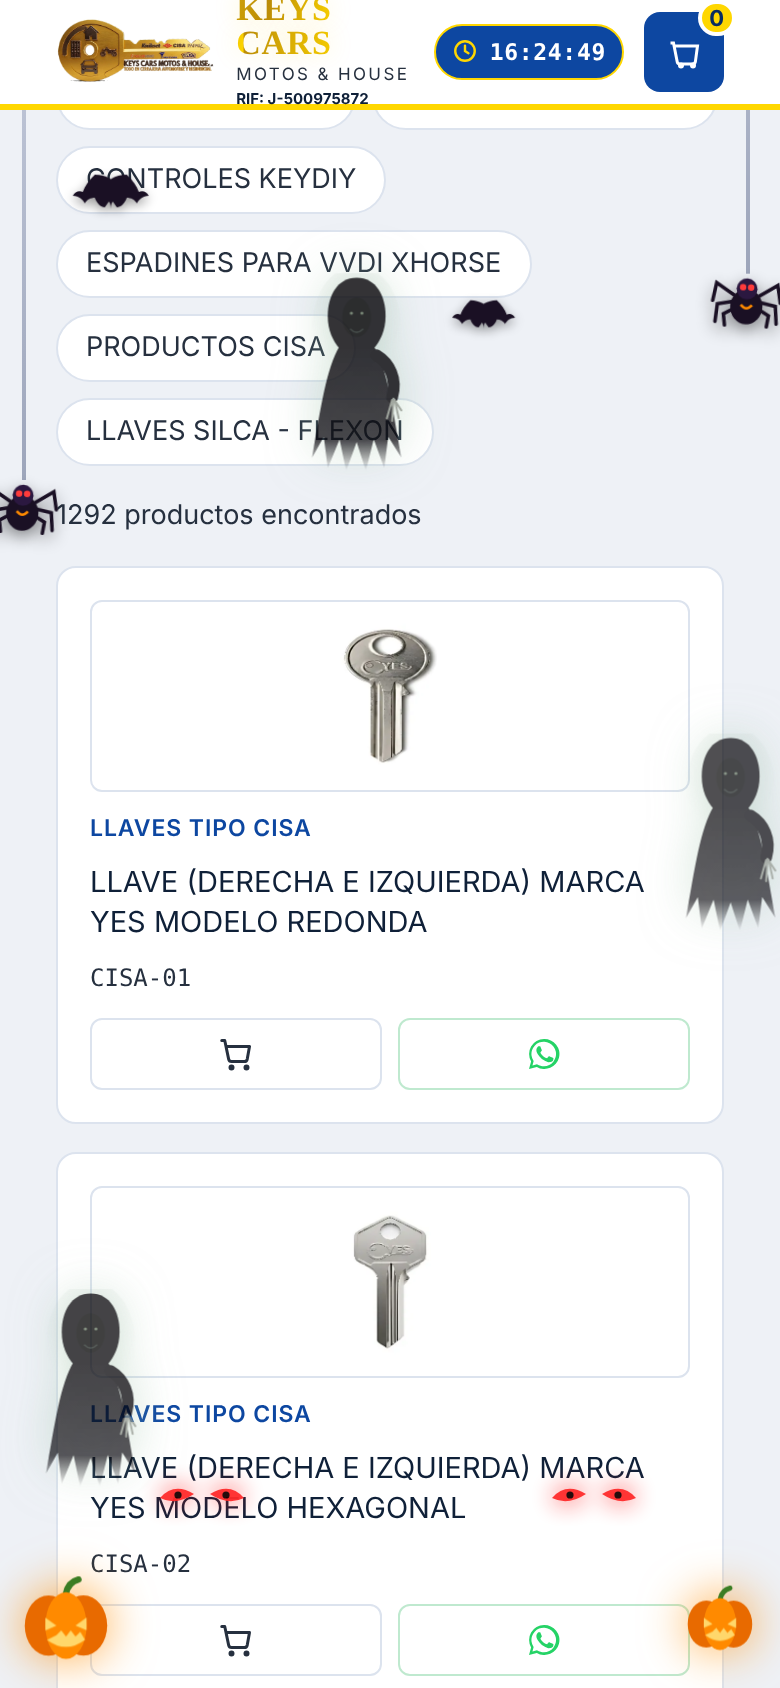
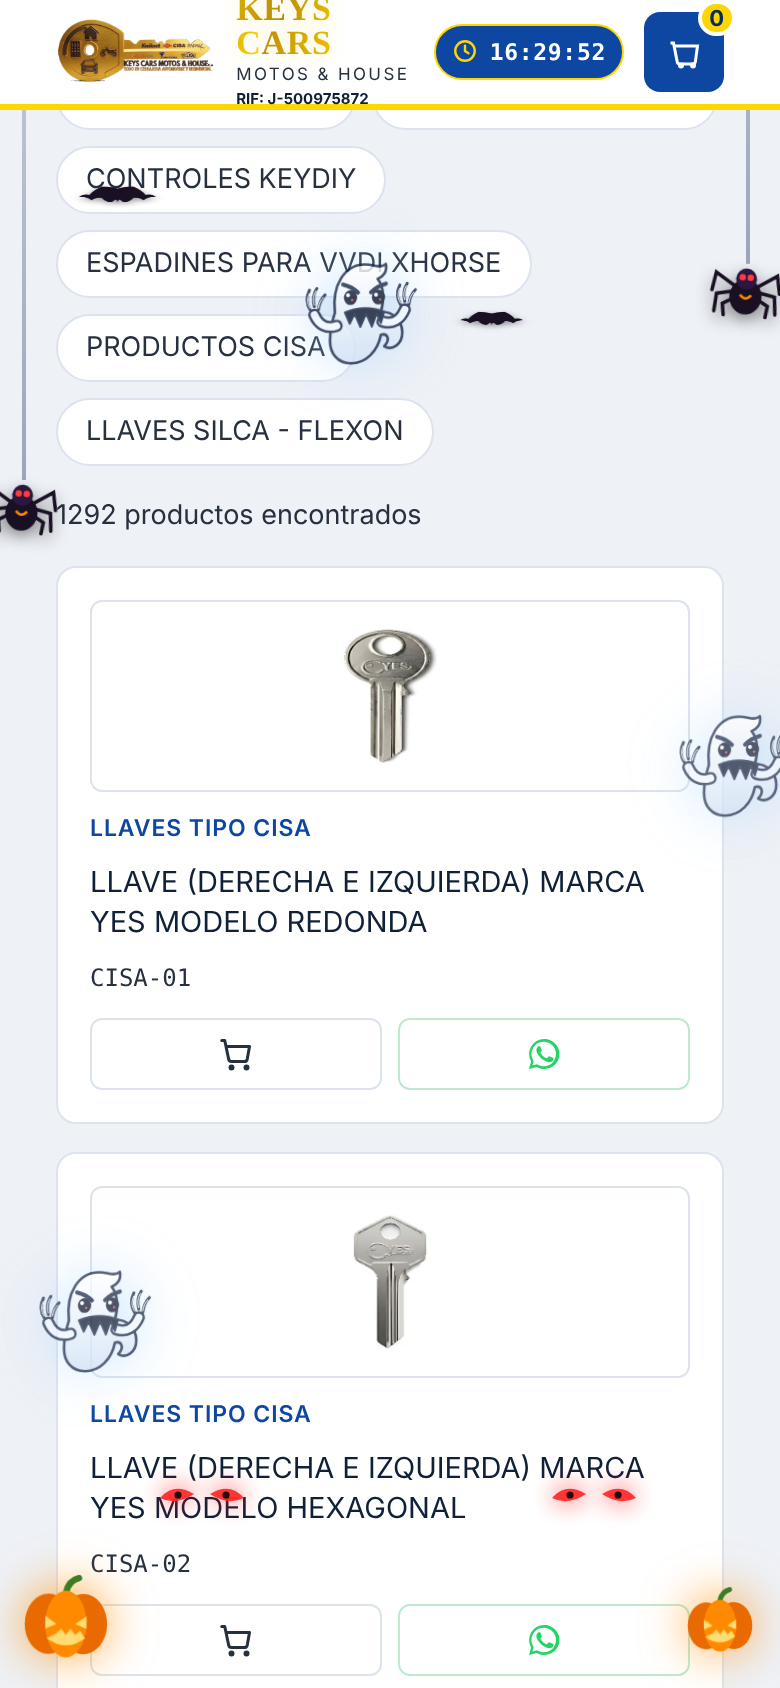
Halloween: fantasmas enojados con garras y dientes afilados
Claude-Session: https://claude.ai/code/session_01SXQ2G67n1zthcvrG685rs1

diff --git a/halloween.js b/halloween.js
@@ -35,8 +35,8 @@
   '@keyframes hwBobW{0%,100%{transform:translateY(0) rotate(-2deg)}50%{transform:translateY(-9px) rotate(2deg)}}' +
   '@keyframes hwWitch{0%{transform:translate(0,0);opacity:0}3%{opacity:1}30%{transform:translate(45vw,60px)}55%{transform:translate(80vw,-20px);opacity:1}62%,100%{transform:translate(calc(100vw + 260px),20px);opacity:0}}' +
   /* fantasmas */
-  '.hw-ghost{position:absolute;bottom:-170px;width:66px;height:142px;opacity:0;animation:hwGhost var(--t,14s) ease-in-out var(--d,0s) infinite;}' +
-  '.hw-ghost svg{width:100%;height:100%;animation:hwWob 2.4s ease-in-out infinite;filter:drop-shadow(0 0 12px rgba(150,190,160,.55));}' +
+  '.hw-ghost{position:absolute;bottom:-130px;width:84px;height:90px;opacity:0;animation:hwGhost var(--t,14s) ease-in-out var(--d,0s) infinite;}' +
+  '.hw-ghost svg{width:100%;height:100%;animation:hwWob 2.4s ease-in-out infinite;filter:drop-shadow(0 0 14px rgba(170,215,255,.8));}' +
   '@keyframes hwGhost{0%{transform:translateY(0);opacity:0}12%{opacity:.9}50%{opacity:.7}85%{opacity:.9}100%{transform:translateY(-115vh);opacity:0}}' +
   '@keyframes hwWob{0%,100%{transform:translateX(-14px) rotate(-3deg) skewX(-3deg)}50%{transform:translateX(14px) rotate(3deg) skewX(3deg)}}' +
   /* ojos rojos que miran desde la oscuridad */
@@ -55,7 +55,7 @@
   '.hw-badge{display:flex;align-items:center;justify-content:center;gap:8px;margin:0 auto 10px;padding:5px 14px;width:max-content;max-width:100%;border-radius:999px;background:#1a1024;color:#ff9d1c;border:1px solid #ff8a00;font:800 12px/1.2 Inter,system-ui,sans-serif;letter-spacing:.06em;text-transform:uppercase;}' +
   '.hw-badge svg{width:16px;height:16px;flex:none;}' +
   '.hw-on .reel{box-shadow:inset 0 0 14px rgba(255,138,0,.35);}' +
-  '@media(max-width:480px){.hw-witch{width:150px;height:95px;top:92px}.hw-ghost{width:46px;height:99px}.hw-web{width:84px;height:84px}.hw-pumpkin{width:46px;height:43px}.hw-pumpkin.hw-p2{width:36px;height:34px}.hw-spider.hw-s3{display:none}.hw-spider{width:36px;margin-left:-18px}.hw-spider svg{width:36px;height:29px}}' +
+  '@media(max-width:480px){.hw-witch{width:150px;height:95px;top:92px}.hw-ghost{width:60px;height:64px}.hw-web{width:84px;height:84px}.hw-pumpkin{width:46px;height:43px}.hw-pumpkin.hw-p2{width:36px;height:34px}.hw-spider.hw-s3{display:none}.hw-spider{width:36px;margin-left:-18px}.hw-spider svg{width:36px;height:29px}}' +
   '@media(prefers-reduced-motion:reduce){.hw-layer *,.hw-on .game-panel{animation:none!important}.hw-bat,.hw-witch,.hw-ghost,.hw-flash{display:none}.hw-spider{transform:translateY(60px)}}';
 
   var st = document.createElement('style'); st.textContent = css; document.head.appendChild(st);
@@ -66,7 +66,7 @@
   var webSvg = '<svg viewBox="0 0 120 120" aria-hidden="true" fill="none" stroke="#ffffff" stroke-width="1.2" stroke-linecap="round"><path d="M0 0L120 0M0 0L0 120M0 0L100 100M0 0L110 45M0 0L45 110"/><path d="M26 0Q22 22 0 26M52 0Q44 44 0 52M80 0Q64 64 0 80M108 0Q86 86 0 108"/></svg>';
 
   var witchSvg = '<svg viewBox="0 0 220 140" aria-hidden="true"><defs><radialGradient id="hwM" cx="40%" cy="38%" r="70%"><stop offset="0" stop-color="#fffbe0"/><stop offset="1" stop-color="#f1d98a"/></radialGradient><linearGradient id="hwC" x1="1" y1="0" x2="0" y2="1"><stop offset="0" stop-color="#2b1247"/><stop offset="1" stop-color="#0c0614"/></linearGradient></defs><circle cx="172" cy="40" r="34" fill="url(#hwM)" opacity=".95"/><circle cx="160" cy="32" r="6" fill="#e6cf7e" opacity=".7"/><circle cx="182" cy="52" r="4.5" fill="#e6cf7e" opacity=".7"/><circle cx="176" cy="26" r="3" fill="#e6cf7e" opacity=".6"/><g><path d="M42 98 L2 80 L7 96 L0 108 L9 111 L4 124 L44 106z" fill="#7a5628"/><path d="M42 98 L6 90M42 101 L4 104M42 104 L8 118" stroke="#3b2812" stroke-width="1.4" fill="none"/><path d="M40 96 L196 84" stroke="#3a2412" stroke-width="5.5" stroke-linecap="round"/><path d="M38 93 L46 93 L46 107 L38 107z" fill="#4a3216"/></g><path d="M106 62C94 66 86 78 80 96C62 100 42 112 22 130C46 124 66 122 86 110C82 118 78 124 72 132C92 122 106 110 114 98L128 88C124 72 118 62 106 62z" fill="url(#hwC)"/><path d="M80 96C70 104 56 112 40 120" stroke="#0c0614" stroke-width="3" fill="none"/><path d="M118 70L138 88" stroke="#140a1f" stroke-width="8" stroke-linecap="round"/><circle cx="141" cy="89" r="5" fill="#8fbf6a"/><path d="M114 50C96 44 80 52 60 44C74 60 94 62 114 58z" fill="#d7d7e6" opacity=".95"/><path d="M114 54C98 54 86 64 66 62C82 70 102 70 114 62z" fill="#a9a9bd" opacity=".9"/><circle cx="125" cy="52" r="12" fill="#8fbf6a"/><path d="M134 50C146 52 150 60 142 66C142 60 138 58 133 58z" fill="#78a857"/><path d="M123 63Q128 72 140 68L134 62z" fill="#78a857"/><path d="M122 58q6 5 13 0" stroke="#2a1840" stroke-width="1.6" fill="none"/><circle cx="130" cy="49" r="2.4" fill="#e6ff3a"/><circle cx="130" cy="49" r="1" fill="#1a1024"/><path d="M104 42C104 36 112 36 124 36 138 36 146 38 146 42 134 44 114 44 104 42z" fill="#0b0613"/><path d="M110 38C112 22 122 12 130 4Q137 -3 150 5Q139 7 138 14C138 24 140 32 140 38z" fill="#0b0613"/><path d="M110 31L140 31L141 37L109 37z" fill="#7a2bd1"/><rect x="121" y="30" width="9" height="8" rx="1" fill="none" stroke="#f0c53a" stroke-width="1.8"/><circle cx="58" cy="118" r="2" fill="#bfff4a" opacity=".8"/><circle cx="40" cy="132" r="1.6" fill="#ffd84a" opacity=".8"/><circle cx="24" cy="116" r="1.4" fill="#bfff4a" opacity=".6"/></svg>';
-  var ghostSvg = '<svg viewBox="0 0 70 150" aria-hidden="true"><defs><linearGradient id="hwG" x1="0" y1="0" x2="0" y2="1"><stop offset="0" stop-color="#050408"/><stop offset=".75" stop-color="#0b0a10" stop-opacity=".92"/><stop offset="1" stop-color="#0b0a10" stop-opacity="0"/></linearGradient><radialGradient id="hwH" cx="50%" cy="30%" r="60%"><stop offset="0" stop-color="#9fb8a8" stop-opacity=".28"/><stop offset="1" stop-color="#9fb8a8" stop-opacity="0"/></radialGradient></defs><ellipse cx="35" cy="40" rx="34" ry="46" fill="url(#hwH)"/><path d="M35 3C20 3 13 17 13 32C13 43 17 51 22 57L48 57C53 51 57 43 57 32C57 17 50 3 35 3z" fill="#050408"/><ellipse cx="35" cy="33" rx="11" ry="15" fill="#000"/><circle cx="31" cy="30" r="1.2" fill="#a9c9a0" opacity=".55"/><circle cx="39" cy="30" r="1.2" fill="#a9c9a0" opacity=".55"/><path d="M30 42Q35 47 40 42" stroke="#1d2420" stroke-width="1.2" fill="none"/><path d="M22 55C12 72 8 100 1 140L10 124 13 148 22 126 27 150 35 128 42 150 48 126 56 148 59 124 69 140C62 100 58 72 48 55z" fill="url(#hwG)"/><path d="M50 62C60 68 66 80 62 94" stroke="#050408" stroke-width="9" stroke-linecap="round" fill="none"/><g stroke="#8d948a" stroke-width="1.5" stroke-linecap="round" fill="none"><path d="M62 96L58 110M63 97L62 112M64 96L67 110M63 95L69 104"/></g></svg>';
+  var ghostSvg = '<svg viewBox="-8 0 146 140" aria-hidden="true"><defs><linearGradient id="hwF" x1="0" y1="0" x2="0" y2="1"><stop offset="0" stop-color="#ffffff"/><stop offset="1" stop-color="#cfe0f5"/></linearGradient></defs><g stroke="#1b2a4a" stroke-width="3.2" stroke-linejoin="round" stroke-linecap="round" fill="url(#hwF)"><path d="M34 70C30 36 46 12 70 12C82 12 88 18 96 12C98 22 92 28 86 30C94 40 94 56 90 70C104 70 116 80 116 96C116 110 104 118 94 112C102 104 98 96 90 98C86 118 72 132 54 132C38 132 28 120 28 104C28 92 30 82 34 70z"/></g><g fill="none" stroke-linecap="round"><path d="M36 86C24 90 14 84 9 72" stroke="#1b2a4a" stroke-width="15"/><path d="M36 86C24 90 14 84 9 72" stroke="#eef5ff" stroke-width="9"/><path d="M92 82C104 86 114 80 119 68" stroke="#1b2a4a" stroke-width="15"/><path d="M92 82C104 86 114 80 119 68" stroke="#eef5ff" stroke-width="9"/><g stroke="#1b2a4a" stroke-width="3.6"><path d="M4 66C-1 58 -1 50 3 42M9 62C7 54 8 46 12 40M14 66C15 58 18 52 22 48"/><path d="M114 62C109 54 109 46 113 38M119 58C117 50 118 42 122 36M124 62C125 54 128 48 132 44"/></g><g stroke="#fff" stroke-width="1.2"><path d="M4 64C0 58 0 52 3 46M9 60C7 54 8 48 11 43M14 64C15 58 17 54 20 51"/><path d="M114 60C110 54 110 48 113 42M119 56C117 50 118 44 121 39M124 60C125 54 127 50 130 47"/></g></g><path d="M44 36C52 38 58 42 62 46" stroke="#1b2a4a" stroke-width="5" stroke-linecap="round" fill="none"/><path d="M96 36C88 38 82 42 78 46" stroke="#1b2a4a" stroke-width="5" stroke-linecap="round" fill="none"/><ellipse cx="53" cy="52" rx="8" ry="9" fill="#101a33"/><ellipse cx="87" cy="52" rx="8" ry="9" fill="#101a33"/><circle cx="50" cy="49" r="2.4" fill="#fff"/><circle cx="84" cy="49" r="2.4" fill="#fff"/><circle cx="55" cy="55" r="1.4" fill="#ff5252"/><circle cx="89" cy="55" r="1.4" fill="#ff5252"/><path d="M46 70L52 84L58 72L65 88L72 72L79 88L85 72L90 84L94 70Q70 60 46 70z" fill="#101a33" stroke="#1b2a4a" stroke-width="2.2" stroke-linejoin="round"/></svg>';
   var eyesSvg = '<svg viewBox="0 0 46 14" aria-hidden="true"><path d="M2 8 Q9 0 19 6 Q10 12 2 8z" fill="#ff2a2a"/><path d="M44 8 Q37 0 27 6 Q36 12 44 8z" fill="#ff2a2a"/><circle cx="11" cy="6.5" r="1.8" fill="#1a0000"/><circle cx="35" cy="6.5" r="1.8" fill="#1a0000"/></svg>';
   function ready(fn){ if(document.readyState !== 'loading') fn(); else document.addEventListener('DOMContentLoaded', fn); }
   ready(function(){
